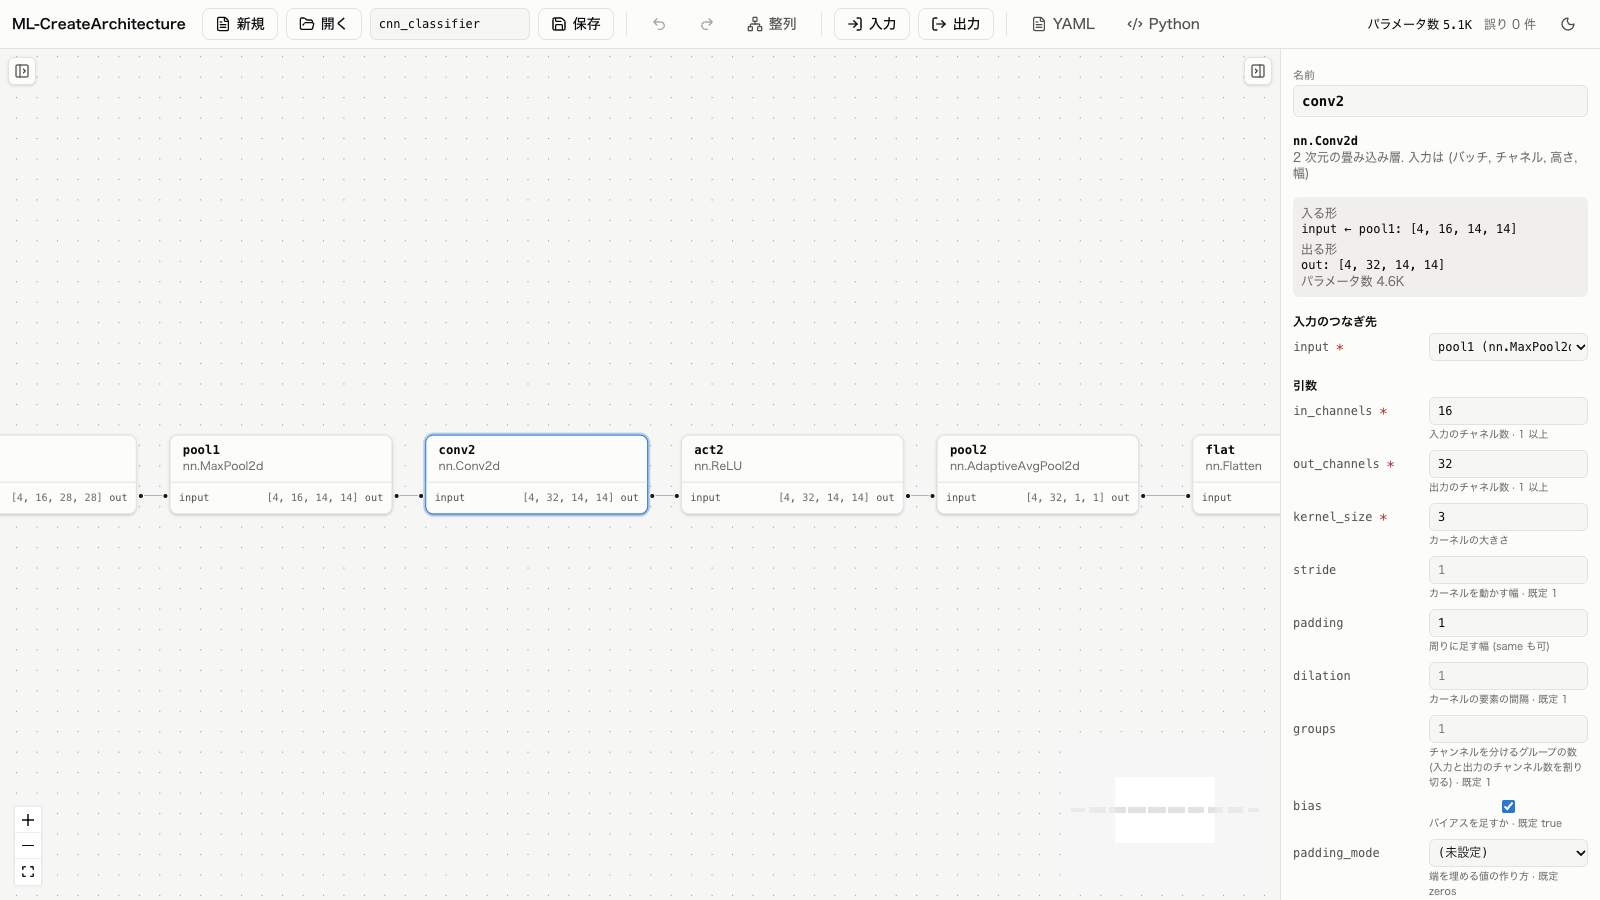
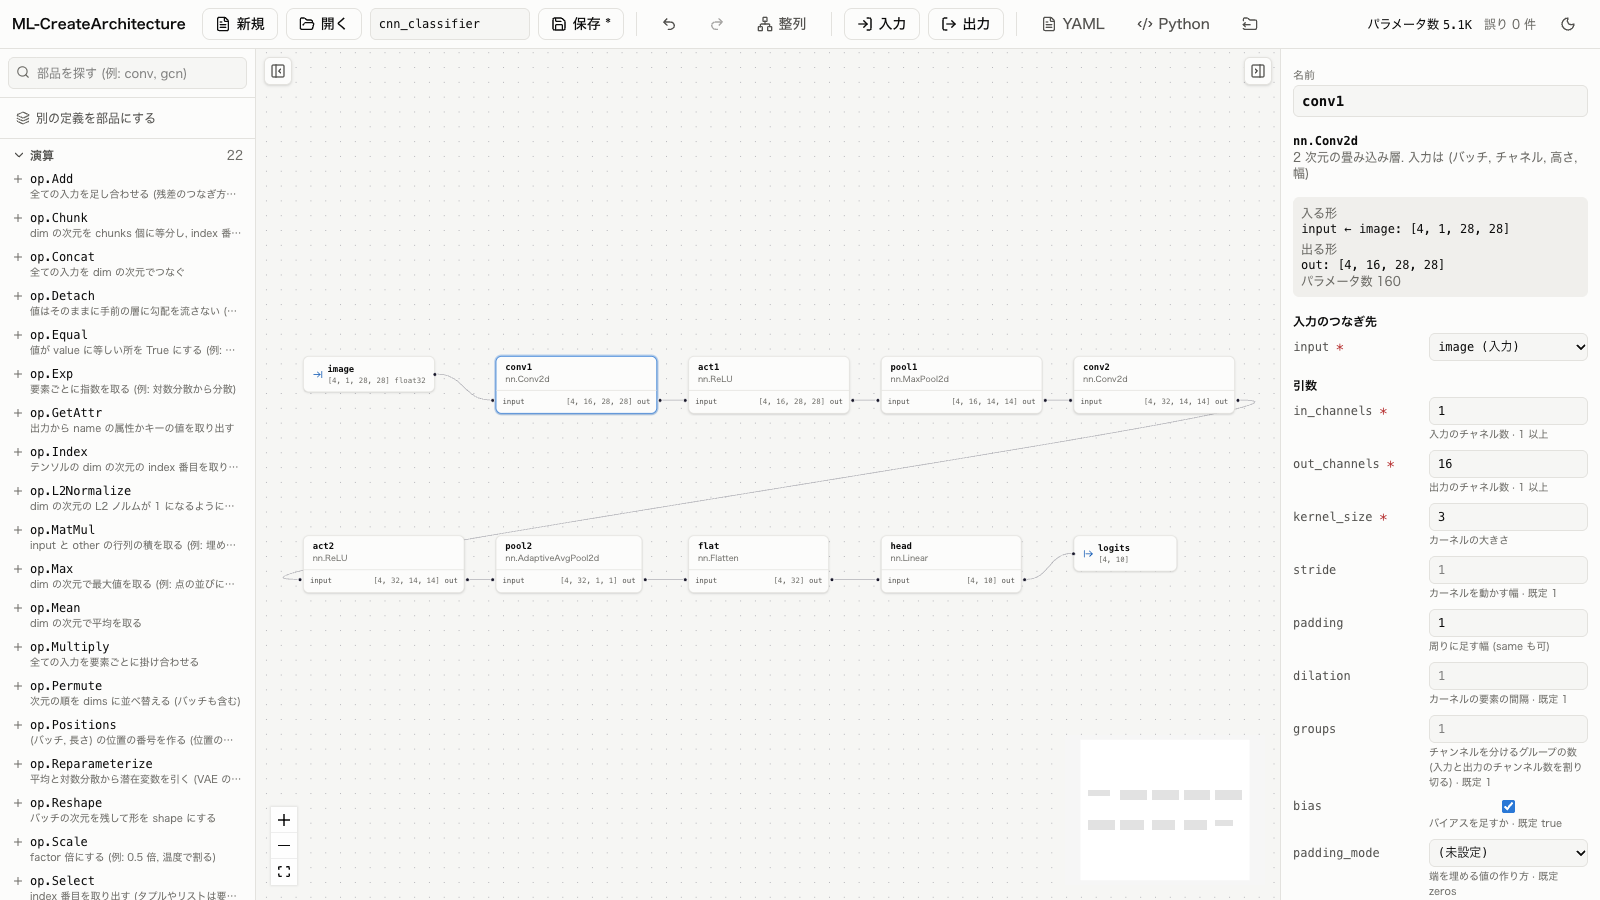
README の画面の例を見本のデータで撮り直し, 実験の定義の写しとデータセットの画面を加える (#124)

diff --git a/frontend/e2e/screenshots.ts b/frontend/e2e/screenshots.ts
@@ -1,0 +1,168 @@
+/// <reference lib="dom" />
+// README の画面の例 (docs/images/*.png) を撮るスクリプト (CI では動かさない).
+// 先に別の端末で pnpm build と bash e2e/serve.sh を動かし, frontend で
+// node e2e/screenshots.ts を実行する. 作業用の置き場の場所は ~ で示す
+import { fileURLToPath } from 'node:url'
+
+import { chromium, type Page } from '@playwright/test'
+
+const port = Number(process.env.E2E_PORT ?? 8792)
+const work = fileURLToPath(new URL('.work', import.meta.url))
+const images = fileURLToPath(new URL('../../docs/images', import.meta.url))
+
+/** 画面の文字と欄の値の作業用の置き場の場所を ~ に置き換える */
+function hidePrefix(prefix: string) {
+  const swap = (text: string) => text.split(prefix).join('~')
+  const hide = () => {
+    const walker = document.createTreeWalker(document.body, NodeFilter.SHOW_TEXT)
+    for (let node = walker.nextNode(); node; node = walker.nextNode())
+      if (node.nodeValue?.includes(prefix)) node.nodeValue = swap(node.nodeValue)
+    for (const input of Array.from(document.querySelectorAll('input')))
+      if (input.value.includes(prefix)) input.value = swap(input.value)
+  }
+  document.addEventListener('DOMContentLoaded', () => {
+    new MutationObserver(hide).observe(document.body, {
+      subtree: true,
+      childList: true,
+      characterData: true,
+    })
+  })
+}
+
+async function shoot(page: Page, name: string) {
+  await page.mouse.move(1590, 890)
+  await page.waitForTimeout(800)
+  await page.screenshot({ path: `${images}/${name}.png` })
+}
+
+/** 下書きの残らない新しい画面を開く */
+async function fresh() {
+  const context = await browser.newContext({
+    baseURL: `http://127.0.0.1:${port}`,
+    viewport: { width: 1600, height: 900 },
+    colorScheme: 'light',
+    extraHTTPHeaders: { 'x-createarchitecture-token': 'e2e-token' },
+  })
+  await context.addInitScript(hidePrefix, work)
+  const page = await context.newPage()
+  page.on('dialog', (dialog) => void dialog.accept())
+  await page.goto('/')
+  return page
+}
+
+/** つながりの順に並べ, 全体を画面に収めてから拡大 (負なら縮小) する */
+async function arrange(page: Page, zoom: number) {
+  await page.getByRole('button', { name: '整列' }).click()
+  await page.locator('.react-flow__controls-fitview').click()
+  const button = zoom > 0 ? 'zoomin' : 'zoomout'
+  for (let i = 0; i < Math.abs(zoom); i++)
+    await page.locator(`.react-flow__controls-${button}`).click()
+  await page.waitForTimeout(500)
+}
+
+async function openExample(page: Page, name: string, node: string, shape: string) {
+  await page.getByRole('button', { name: '開く', exact: true }).click()
+  await page.getByRole('button', { name, exact: true }).click()
+  await page.locator(`[data-id="${node}"]`).getByText(shape).waitFor({ timeout: 20_000 })
+}
+
+/** 全結合 (16 → out) を置いて入力と出力につなぐ */
+async function placeLinear(page: Page, out: string) {
+  await page.getByPlaceholder('部品を探す').fill('nn.Linear')
+  await page
+    .getByRole('button', { name: /^nn\.Linear/ })
+    .first()
+    .click()
+  await page.getByLabel('in_features').fill('16')
+  await page.getByLabel('in_features').press('Enter')
+  await page.getByLabel('out_features').fill(out)
+  await page.getByLabel('out_features').press('Enter')
+  await page.getByLabel(/^input/).selectOption('x')
+  await page.getByRole('button', { name: '出力' }).click()
+  await page.getByLabel(/つなぎ先/).selectOption('linear1')
+}
+
+const browser = await chromium.launch({ channel: 'chrome' })
+let page = await fresh()
+
+// VAE の雛形で, 再パラメータ化のノードを選ぶ
+await openExample(page, 'vae', 'z', '[8, 8]')
+await arrange(page, 2)
+await page.locator('[data-id="z"]').getByText('z', { exact: true }).click()
+await shoot(page, 'vae')
+
+// CNN の例で, 畳み込みのノードを選ぶ
+page = await fresh()
+await openExample(page, 'cnn_classifier', 'head', '[4, 10]')
+await arrange(page, 0)
+await page.locator('[data-id="conv1"]').getByText('conv1', { exact: true }).click()
+await shoot(page, 'cnn')
+
+// 開くの一覧 (保存した定義, 同梱の例と雛形, 学習の実験の定義の写し)
+page = await fresh()
+await page.getByRole('button', { name: '開く', exact: true }).click()
+const open = page.getByRole('dialog', { name: '定義を開く' })
+await open.getByRole('button', { name: 'vae', exact: true }).waitFor()
+await shoot(page, 'open')
+
+// 学習の実験の定義の写しを探す
+const copies = open.getByRole('region', { name: '学習の実験の定義の写し' })
+await copies.getByLabel('プロジェクトか問題の設定').fill(`${work}/project`)
+await copies.getByRole('button', { name: '実験を探す' }).click()
+const run = copies.getByRole('button', { name: /e2e_run/ })
+await run.waitFor()
+await run.scrollIntoViewIfNeeded()
+await shoot(page, 'run_copy')
+
+// 形の誤り (入る形 16 に対して in_features 8)
+page = await fresh()
+await placeLinear(page, '4')
+await arrange(page, -3)
+await page.locator('[data-id="linear1"]').click()
+await page.getByLabel('in_features').fill('8')
+await page.getByLabel('in_features').press('Enter')
+await page.locator('header').getByText('誤り 1 件').waitFor({ timeout: 20_000 })
+await page.locator('[data-id="linear1"]').click()
+await shoot(page, 'error')
+
+// データセットとプロジェクト: 問題の設定を選び, 入力と出力を作る
+page = await fresh()
+await page.getByRole('button', { name: 'データセットとプロジェクト' }).click()
+const dialog = page.getByRole('dialog', { name: 'データセットとプロジェクト' })
+await dialog
+  .getByRole('list', { name: 'ML-Pathfinder に保存した問題の設定' })
+  .getByRole('button', { name: /e2e の売上/ })
+  .click()
+const data = dialog.getByRole('region', { name: 'データセットから入力と出力を作る' })
+await data.getByRole('button', { name: '入力と出力を作る' }).click()
+await data
+  .getByRole('status')
+  .getByText(/^データセットから入れました/)
+  .waitFor()
+await dialog.getByRole('group', { name: '保存先' }).waitFor()
+await data.evaluate((el) => el.scrollIntoView({ block: 'start' }))
+await shoot(page, 'dataset')
+
+// パラメータの状態: 凍結と外部の重みを書き, 読んだ数を確かめる
+page = await fresh()
+await placeLinear(page, '4')
+await arrange(page, -3)
+await page.locator('header').getByText('誤り 0 件').waitFor({ timeout: 20_000 })
+await page.locator('[data-id="linear1"]').click()
+const state = page.getByRole('group', { name: 'パラメータの状態' })
+await state.getByLabel('学習する').uncheck()
+await state.getByLabel('外部の重み (weights)').selectOption('path')
+await state.getByLabel(/ファイルのパス/).fill('e2e_base.pt')
+await state.getByLabel(/ファイルのパス/).press('Enter')
+await state.getByRole('button', { name: '付け替えを足す' }).click()
+const rule = state.getByRole('group', { name: '付け替え 1' })
+await rule.getByLabel(/^前置き/).fill('model.fc.')
+await rule.getByLabel(/^前置き/).press('Enter')
+await state.getByLabel(/合わない重みがあれば止める/).uncheck()
+await state.getByRole('button', { name: '重みを読んで確かめる' }).click()
+const report = state.getByRole('status', { name: '重みの読み込みの報告' })
+await report.getByText('linear1').waitFor({ timeout: 20_000 })
+await report.scrollIntoViewIfNeeded()
+await shoot(page, 'param_state')
+
+await browser.close()
